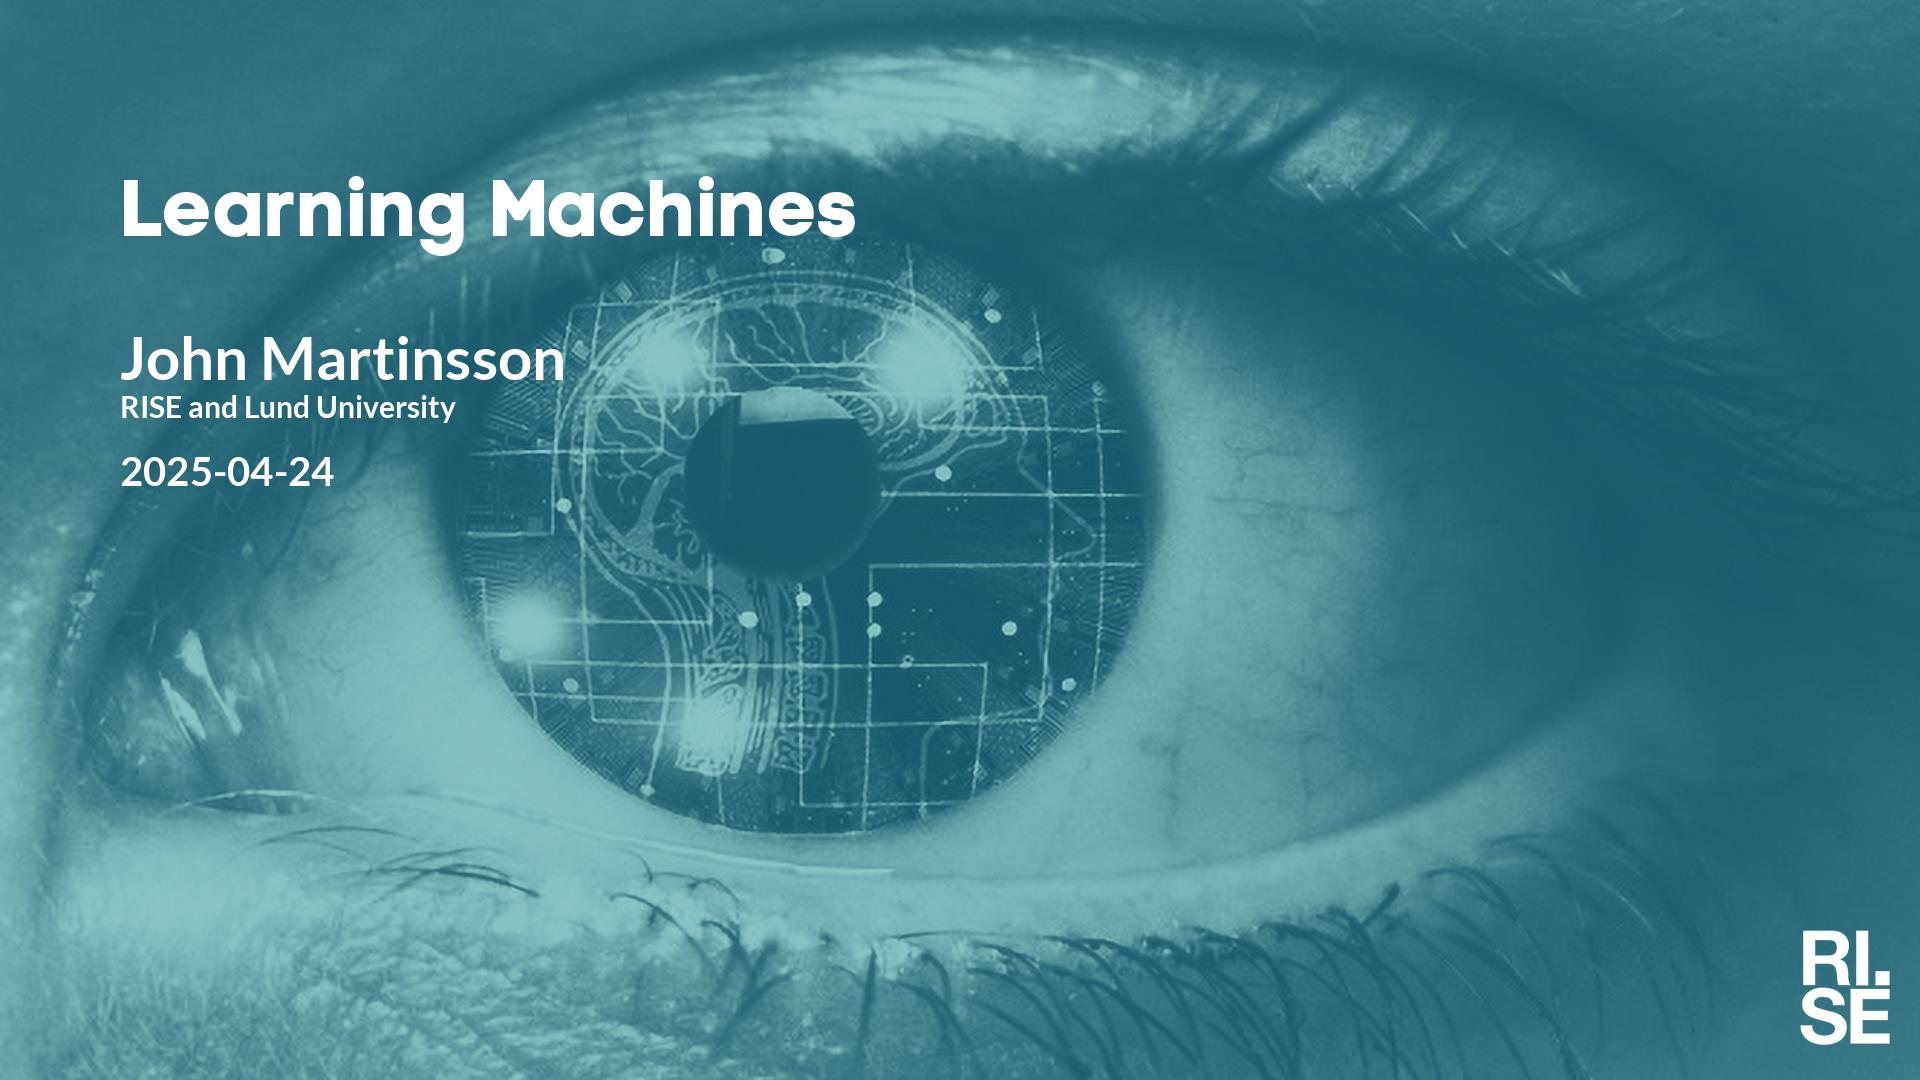
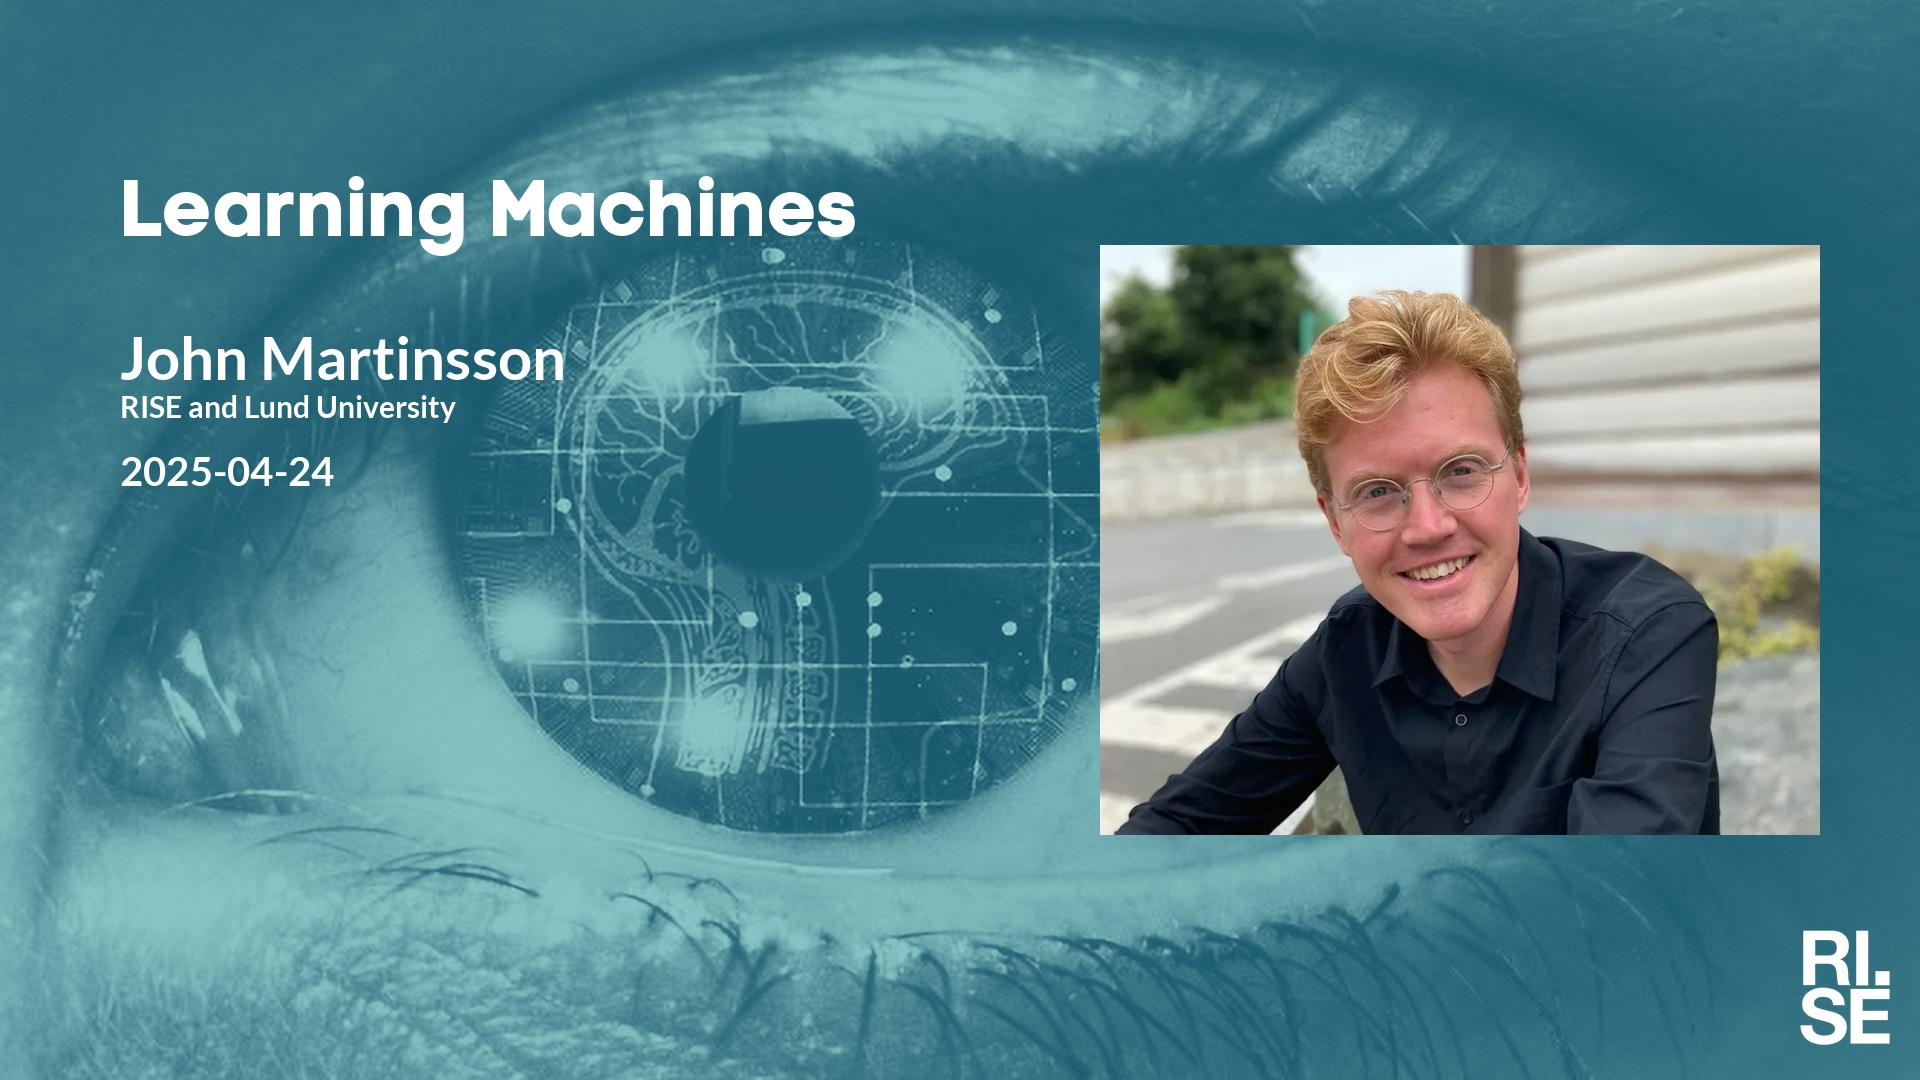
Updated plan on web site.

Changed region(s): [[0.5625, 0.2139, 0.9688, 0.7944]]

diff --git a/lm/index.md b/lm/index.md
@@ -28,7 +28,7 @@ table {border-collapse: collapse;}
 | <span style="color:purple"> 2025-04-03 </span> | <span style="color:purple"> *Up for grabs!!!* </span> | <span style="color:purple">  </span> | <span style="color:purple">  </span> | <span style="color:purple">  </span> | <span style="color:purple">  </span> | <span style="color:purple"> ~~STABP~~ </span> |
 | <span style="color:purple"> 2025-04-10 </span> | <span style="color:purple"> *Up for grabs!!!* </span> | <span style="color:purple">  </span> | <span style="color:purple">  </span> | <span style="color:purple">  </span> | <span style="color:purple">  </span> | <span style="color:purple"> ~~STABP~~ </span> |
 | <span style="color:red"> 2025-04-17 </span> | <span style="color:red"> Holy Thursday </span> | <span style="color:red">  </span> | <span style="color:red">  </span> | <span style="color:red">  </span> | <span style="color:red">  </span> | <span style="color:red"> CANCELLED </span> |
-|  2025-04-24  |  [John Martinsson, RISE and Lund University](2025-04-24.md)  |    |  [social media ](social-media-john-martinsson.jpg)  |  [meeting backdrop ](meeting-backdrop-john-martinsson.jpg)  |  [youtube thumbnail ](youtube-thumbnail-john-martinsson.jpg)  |  S~~TA~~B~~P~~  |
+|  2025-04-24  |  [John Martinsson, RISE and Lund University](2025-04-24.md)  |  [photo](photo-john-martinsson.jpg)  |  [social media ](social-media-john-martinsson.jpg)  |  [meeting backdrop ](meeting-backdrop-john-martinsson.jpg)  |  [youtube thumbnail ](youtube-thumbnail-john-martinsson.jpg)  |  S~~TA~~BP  |
 | <span style="color:red"> 2025-05-01 </span> | <span style="color:red"> International Workers' Day </span> | <span style="color:red">  </span> | <span style="color:red">  </span> | <span style="color:red">  </span> | <span style="color:red">  </span> | <span style="color:red"> CANCELLED </span> |
 | <span style="color:purple"> 2025-05-08 </span> | <span style="color:purple"> *Up for grabs!!!* </span> | <span style="color:purple">  </span> | <span style="color:purple">  </span> | <span style="color:purple">  </span> | <span style="color:purple">  </span> | <span style="color:purple"> ~~STABP~~ </span> |
 | <span style="color:purple"> 2025-05-15 </span> | <span style="color:purple"> *Up for grabs!!!* </span> | <span style="color:purple">  </span> | <span style="color:purple">  </span> | <span style="color:purple">  </span> | <span style="color:purple">  </span> | <span style="color:purple"> ~~STABP~~ </span> |
